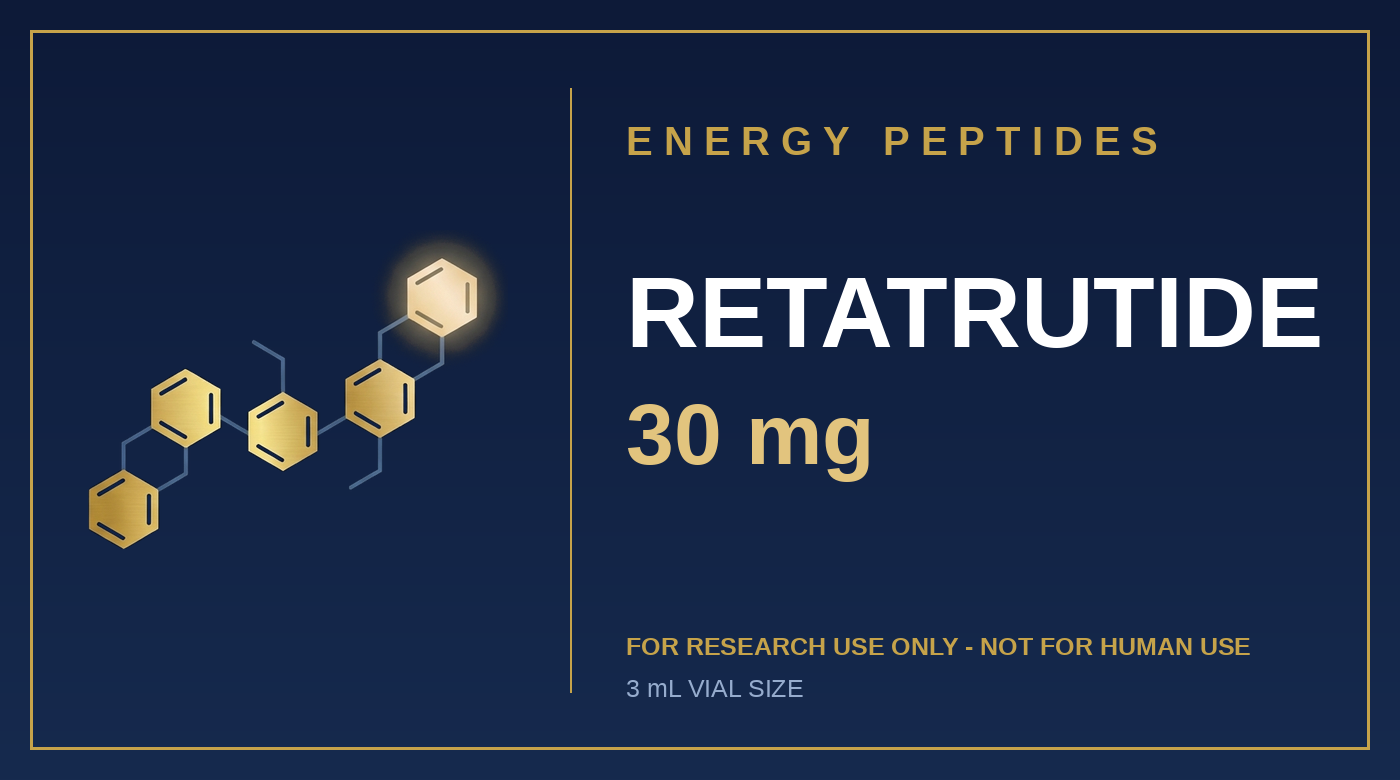
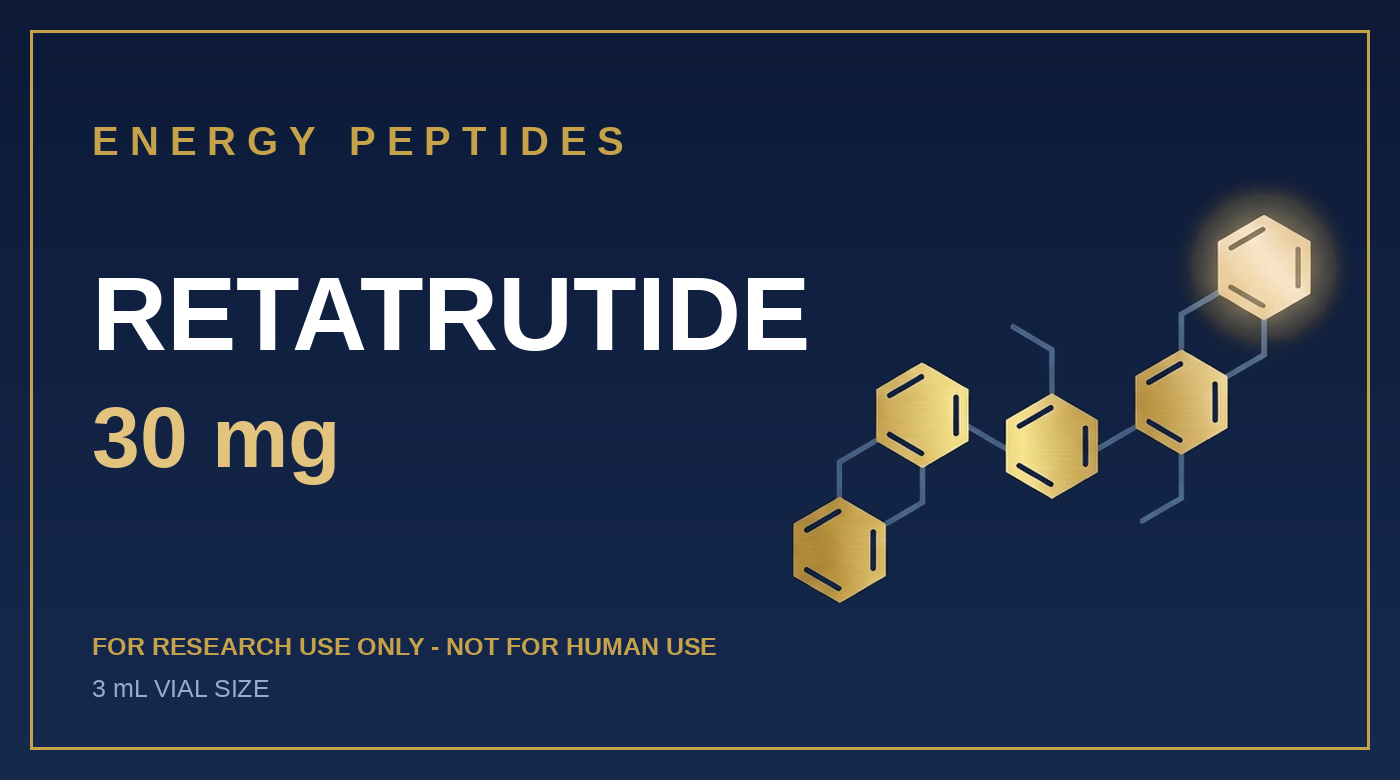
Labels v2: new layout on all 22; NAD+ is "NAD+ (buffered)" in a 5 mL vial
- inbox/labels: replaced with Jett's revised print files (text left, mark right,
  no divider). Wording unchanged except NAD+.
- NAD+ 500mg: vial_ml 5 and display_name "NAD+ (buffered)", as printed.
- Site placeholder vial redrawn to the new layout; vial size now read from the graph.
- Kashu product title updated (only blends carry their components in brackets).

diff --git a/kg/site_export.py b/kg/site_export.py
@@ -86,7 +86,7 @@ def build(store: Store) -> dict:
             "composition_class": comp_class, "composition_slug": comp_slug,
             "sku": a["sku"], "name": p["name"], "display_name": a.get("display_name"), "slug": a.get("slug"), "aliases": [x for x in p["aliases"] if len(x) > 4],
             "category": a.get("category"), "form": a.get("form"), "size_mg": a.get("size_mg"), "size_ml": a.get("size_ml"),
-            "price_usd": a.get("price_usd"), "purity_spec": a.get("purity_spec"), "status": a.get("status"),
+            "price_usd": a.get("price_usd"), "purity_spec": a.get("purity_spec"), "status": a.get("status"), "vial_ml": a.get("vial_ml"),
             "in_stock": on_hand > 0 and a.get("status") == "active", "on_hand": on_hand,
             "components": comps, "research_area": {"name": area["name"], "slug": area["slug"]} if area else None,
             "claims": claims, "studies": studies, "faqs": [faq_all[i] for i in sorted(faq_ids)],

diff --git a/kg/sync.py b/kg/sync.py
@@ -192,7 +192,9 @@ class KashuAdapter:
     @staticmethod
     def title(it: CatalogItem) -> str:
         disp = it.extra.get("display_name")
-        return f"{disp} {it.variant} ({it.family})" if disp else it.name   # e.g. "KLOW 80mg (BPC-157 / GHK-Cu / KPV / TB-500)"
+        if not disp:
+            return it.name
+        return f"{disp} {it.variant} ({it.family})" if " / " in it.family else f"{disp} {it.variant}"   # "KLOW 80mg (BPC-157 / …)", "NAD+ (buffered) 500mg"
 
     def project(self, it: CatalogItem) -> CatalogItem:
         """Local item as Kashu would hold it."""
